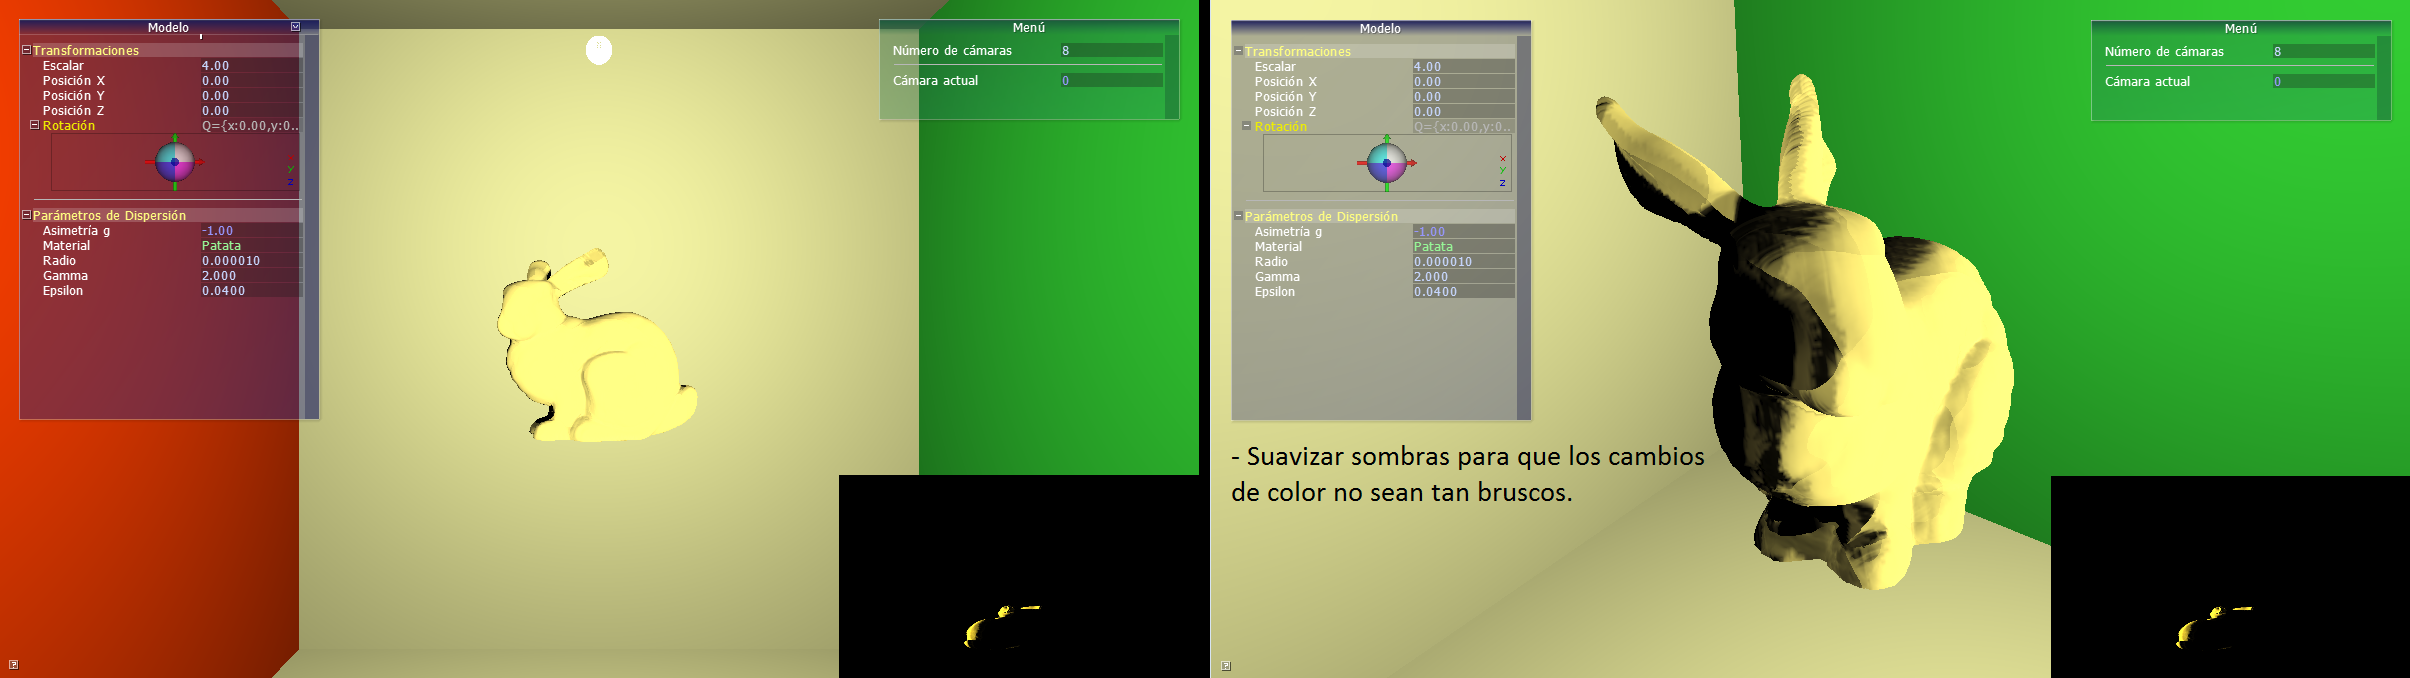
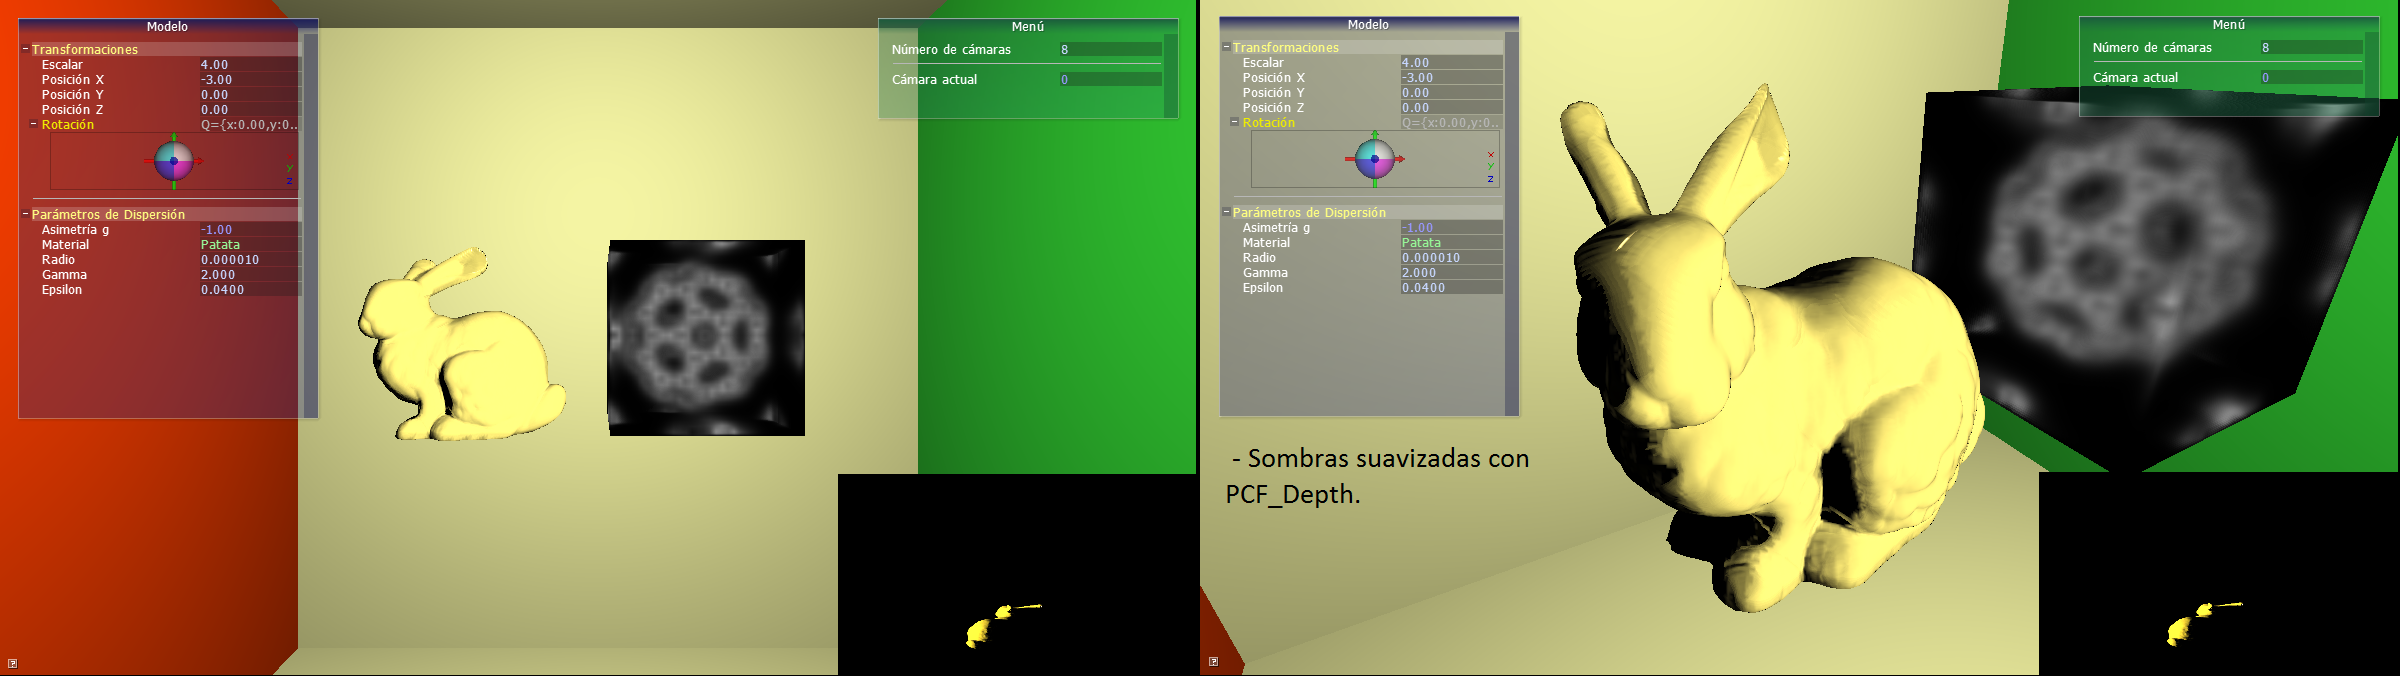
Suavizado de sombras en Scattered Maps y cambios en cámaras.

diff --git a/Volume and Mesh Scattering/Main.cpp b/Volume and Mesh Scattering/Main.cpp
@@ -24,11 +24,16 @@ CGLSLProgram glsl_g_buffer, glsl_g_buffer_plane, glsl_scattered_map, glsl_blendi
 int selected_model = -1;
 GLuint quad_vao, quad_vbo;
 
-
 void update_interface_menu()
 {
-	if (num_of_ortho_cameras != scene_interface->num_of_cameras)
+	if (selecting_volume)
+		scene_interface->update_position();
+	else
+		scene_interface->update_width(g_width);
+	if (num_of_ortho_cameras != scene_interface->num_of_cameras) {
+		scene_model->change_values = true;
 		scene_interface->camera_selected = 0;
+	}
 	num_of_ortho_cameras = scene_interface->num_of_cameras;
 	scene_interface->set_max_values(num_of_ortho_cameras - 1);
 	selected_camera = scene_interface->camera_selected;	
@@ -476,7 +481,7 @@ bool init_scene()
 	transfer_funtion->hide = true;
 
 	scene_light = new light();
-	scene_light->translation = glm::vec3(3.0, 3.0f, 5.0f);
+	scene_light->translation = glm::vec3(0.0, 6.0f, 5.0f);
 
 	potato = new material(glm::vec3(0.68f, 0.70f, 0.55f), glm::vec3(0.0024f, 0.0090f, 0.12f), glm::vec3(0.77f, 0.62f, 0.21f), 1.3f);
 	marble = new material(glm::vec3(2.19f, 2.62f, 3.00f), glm::vec3(0.0021f, 0.0041f, 0.0071f), glm::vec3(0.83f, 0.79f, 0.75f), 1.5f);
@@ -682,20 +687,22 @@ void display()
 
 	glDisable(GL_DEPTH_TEST);
 
-	glsl_g_buffer_plane.enable();
-	model_mat = glm::mat4(1.0f);
-	model_mat = glm::translate(model_mat, glm::vec3(0.7, -0.7, -1.0));
-	model_mat = glm::scale(model_mat, glm::vec3(0.3f));
-	glUniformMatrix4fv(glsl_g_buffer_plane.getLocation("model_matrix"), 1, GL_FALSE, glm::value_ptr(model_mat));
-	glUniform1i(glsl_g_buffer_plane.getLocation("camera_select"), selected_camera);
-	glUniform1i(glsl_g_buffer_plane.getLocation("quad_texture"), 0);
-	glActiveTexture(GL_TEXTURE0);
-	glBindTexture(GL_TEXTURE_2D_ARRAY, scattered_maps->array_texture);
-	render_quad();
-	glsl_g_buffer_plane.disable();
+	if (!selecting_volume) {
+		glsl_g_buffer_plane.enable();
+		model_mat = glm::mat4(1.0f);
+		model_mat = glm::translate(model_mat, glm::vec3(0.7, -0.7, -1.0));
+		model_mat = glm::scale(model_mat, glm::vec3(0.3f));
+		glUniformMatrix4fv(glsl_g_buffer_plane.getLocation("model_matrix"), 1, GL_FALSE, glm::value_ptr(model_mat));
+		glUniform1i(glsl_g_buffer_plane.getLocation("camera_select"), selected_camera);
+		glUniform1i(glsl_g_buffer_plane.getLocation("quad_texture"), 0);
+		glActiveTexture(GL_TEXTURE0);
+		glBindTexture(GL_TEXTURE_2D_ARRAY, scattered_maps->array_texture);
+		render_quad();
+		glsl_g_buffer_plane.disable();
+	}
 
-	/*volumes->display(projection * view, scene_camera->position, scene_lights[0]);
-	transfer_funtion->display();*/
+	volumes->display(projection * view, scene_camera->position, scene_light);
+	transfer_funtion->display();
 }
 
 void destroy()

diff --git a/Volume and Mesh Scattering/InterfaceMenu.h b/Volume and Mesh Scattering/InterfaceMenu.h
@@ -21,6 +21,7 @@ public:
 	void reshape(int g_width, int g_height);
 	void update_width(int g_width);
 	void set_max_values(int num_of_cameras);
+	void update_position();
 	void show();
 	void hide();
 };
